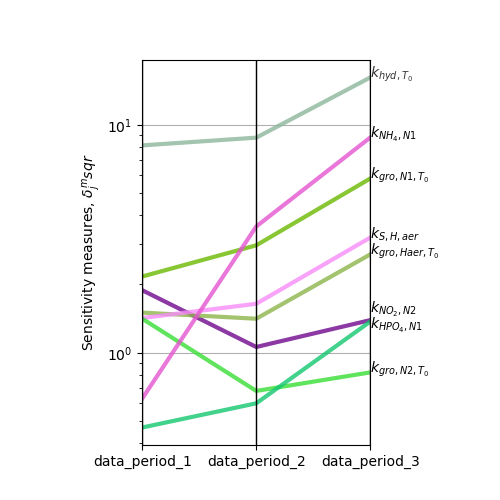
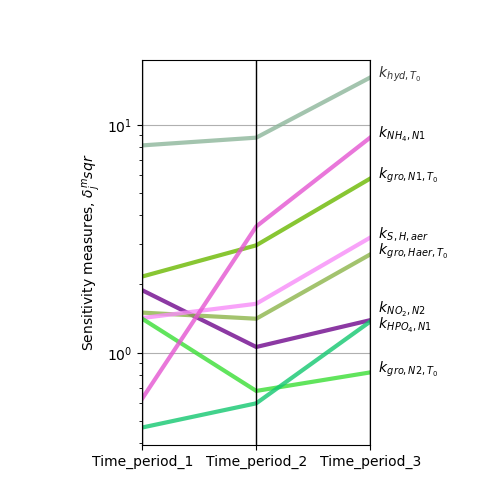
revise figures produced from Python scripts

diff --git a/python-data-processing/parallel-coordinates.py b/python-data-processing/parallel-coordinates.py
@@ -1,8 +1,8 @@
 # The code was developed, referring to https://reedgroup.github.io/FigureLibrary/MOEADiagnostics.html
-
 import pandas as pd
 import matplotlib.pyplot as plt
 from pandas.plotting import parallel_coordinates
+
 
 rankings_kinetic = pd.read_csv('sensitivities_ranking_kinetic.csv')
 fig, ax =plt.subplots(figsize=(5,5))
@@ -10,21 +10,21 @@ fig, ax =plt.subplots(figsize=(5,5))
 parallel_coordinates(rankings_kinetic, 'Params', linewidth=3, alpha=.8, ax=ax)
 ax.set_ylabel('Sensitivity measures, $\delta_j^msqr$')
 ax.get_legend().remove()
-ax.annotate('$k_{hyd,T_0}$', xy =(2.0, rankings_kinetic['data_period_3'][0]), alpha=.8)
+ax.annotate('  $k_{hyd,T_0}$', xy =(2.0, rankings_kinetic['Time_period_3'][0]), alpha=.8)
 
-ax.annotate('$k_{gro,N1,T_0}$', xy =(2.0, rankings_kinetic['data_period_3'][1]))
+ax.annotate('  $k_{gro,N1,T_0}$', xy =(2.0, rankings_kinetic['Time_period_3'][1]))
 
-ax.annotate('$k_{NO_2,N2}$', xy =(2.0, rankings_kinetic['data_period_3'][2]+0.1))
+ax.annotate('  $k_{NO_2,N2}$', xy =(2.0, rankings_kinetic['Time_period_3'][2]+0.1))
 
-ax.annotate('$k_{gro,Haer,T_0}$', xy =(2.0, rankings_kinetic['data_period_3'][3]))
+ax.annotate('  $k_{gro,Haer,T_0}$', xy =(2.0, rankings_kinetic['Time_period_3'][3]))
 
-ax.annotate('$k_{S,H,aer}$', xy =(2.0, rankings_kinetic['data_period_3'][4]))
+ax.annotate('  $k_{S,H,aer}$', xy =(2.0, rankings_kinetic['Time_period_3'][4]))
 
-ax.annotate('$k_{gro,N2,T_0}$', xy =(2.0, rankings_kinetic['data_period_3'][5]))
+ax.annotate('  $k_{gro,N2,T_0}$', xy =(2.0, rankings_kinetic['Time_period_3'][5]))
 
-ax.annotate('$k_{NH_4,N1}$', xy =(2.0, rankings_kinetic['data_period_3'][6]))
+ax.annotate('  $k_{NH_4,N1}$', xy =(2.0, rankings_kinetic['Time_period_3'][6]))
 
-ax.annotate('$k_{HPO_4,N1}$', xy =(2.0, rankings_kinetic['data_period_3'][7]-0.1))
+ax.annotate('  $k_{HPO_4,N1}$', xy =(2.0, rankings_kinetic['Time_period_3'][7]-0.1))
 
 
 ax.set_yscale('log')
@@ -41,21 +41,21 @@ parallel_coordinates(rankings_WQ, 'Params', linewidth=3, alpha=.8, ax=ax2)
 ax2.set_ylabel('Sensitivity measures $\delta_j^msqr$')
 ax2.get_legend().remove()
 
-ax2.annotate(r'$\rho_{dir}$', xy =(2.0, rankings_WQ['data_period_3'][0]))
+ax2.annotate(r'  $\rho_{dir}$', xy =(2.0, rankings_WQ['Time_period_3'][0]))
 
-ax2.annotate('$S_S - TJ_{Gray}$', xy =(2.0, rankings_WQ['data_period_3'][1]))
+ax2.annotate('  $S_S - TJ_{Gray}$', xy =(2.0, rankings_WQ['Time_period_3'][1]))
 
-ax2.annotate(r'$\rho_{chu}$', xy =(2.0, rankings_WQ['data_period_3'][2]))
+ax2.annotate(r'  $\rho_{chu}$', xy =(2.0, rankings_WQ['Time_period_3'][2]))
 
-ax2.annotate('$S_S - KU$', xy =(2.0, rankings_WQ['data_period_3'][3]))
+ax2.annotate('  $S_S - KU$', xy =(2.0, rankings_WQ['Time_period_3'][3]))
 
-ax2.annotate('$X_S - TJ_{Gray}$', xy =(2.0, rankings_WQ['data_period_3'][4]))
+ax2.annotate('  $X_S - TJ_{Gray}$', xy =(2.0, rankings_WQ['Time_period_3'][4]))
 
-ax2.annotate('$X_H - TJ_{Gray}$', xy =(2.0, rankings_WQ['data_period_3'][5]+0.2))
-ax2.annotate('$X_{N1} - TJ_{Gray}$', xy =(2.0, rankings_WQ['data_period_3'][6]))
-ax2.annotate('$X_{N2} - TJ_{Gray}$', xy =(2.0, rankings_WQ['data_period_3'][7]-0.3))
-ax2.annotate('$X_S - KU$', xy =(2.0, rankings_WQ['data_period_3'][8]))
-ax2.annotate('$S_{NH_4} - TJ_{Black}$', xy =(2.0, rankings_WQ['data_period_3'][9]+0.2))
+ax2.annotate('  $X_H - TJ_{Gray}$', xy =(2.0, rankings_WQ['Time_period_3'][5]+0.2))
+ax2.annotate('  $X_{N1} - TJ_{Gray}$', xy =(2.0, rankings_WQ['Time_period_3'][6]))
+ax2.annotate('  $X_{N2} - TJ_{Gray}$', xy =(2.0, rankings_WQ['Time_period_3'][7]-0.3))
+ax2.annotate('  $X_S - KU$', xy =(2.0, rankings_WQ['Time_period_3'][8]))
+ax2.annotate('  $S_{NH_4} - TJ_{Black}$', xy =(2.0, rankings_WQ['Time_period_3'][9]+0.2))
 
 
 ax2.set_yscale('log')
